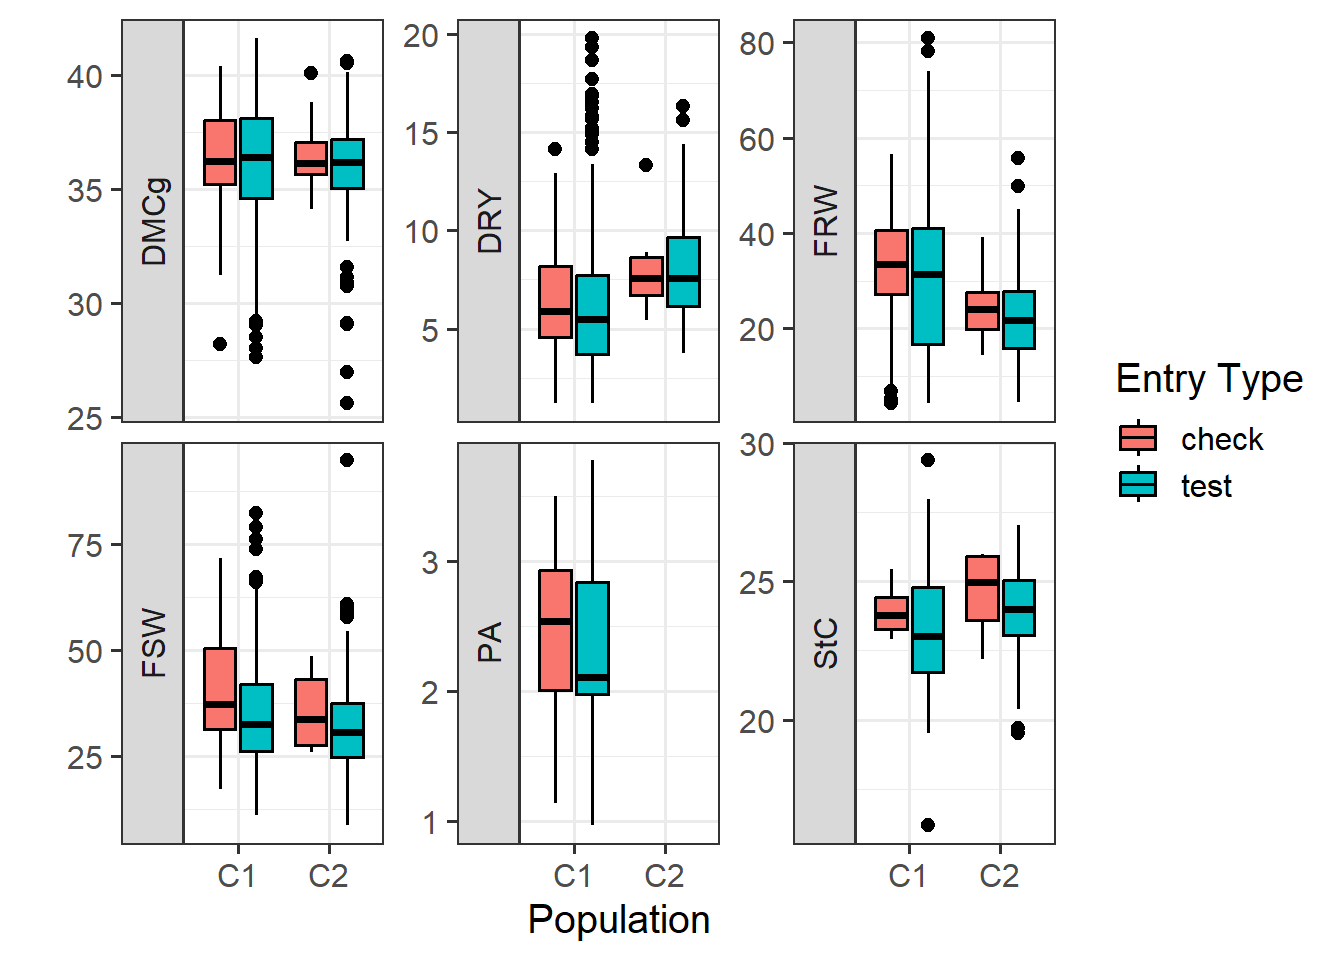
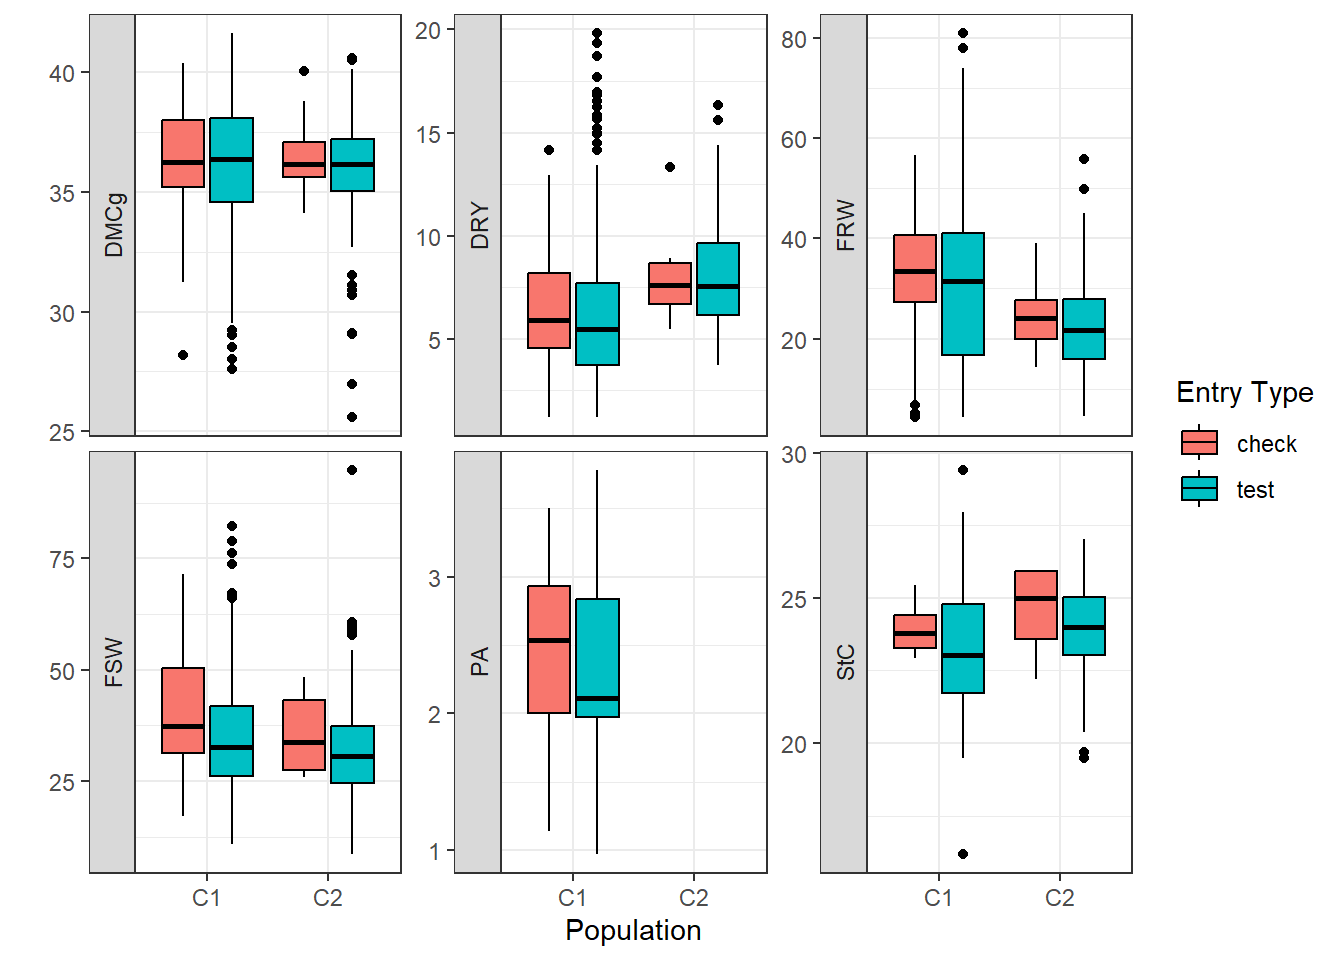
corrected size of the figures in blups_cycles

diff --git a/docs/3_Blups_cycles.html b/docs/3_Blups_cycles.html
@@ -540,15 +540,15 @@ project makes it easier to run your code on other machines.</p>
 <div class="panel panel-default">
 <div class="panel-heading">
 <p class="panel-title">
-<a data-toggle="collapse" data-parent="#workflowr-checks" href="#strongRepositoryversionstrongahrefhttpsgithubcomWevertonGomesCostaanalisysnextgen2022tree85ab19d965010c4c76e595405e2b5b4fa9d9b47ftargetblank85ab19da">
+<a data-toggle="collapse" data-parent="#workflowr-checks" href="#strongRepositoryversionstrongahrefhttpsgithubcomWevertonGomesCostaanalisysnextgen2022treee629936b03b2928fd5f9713a995f3157fe22eb98targetblanke629936a">
 <span class="glyphicon glyphicon-ok text-success"
 aria-hidden="true"></span> <strong>Repository version:</strong>
-<a href="https://github.com/WevertonGomesCosta/analisys-next-gen-2022/tree/85ab19d965010c4c76e595405e2b5b4fa9d9b47f" target="_blank">85ab19d</a>
+<a href="https://github.com/WevertonGomesCosta/analisys-next-gen-2022/tree/e629936b03b2928fd5f9713a995f3157fe22eb98" target="_blank">e629936</a>
 </a>
 </p>
 </div>
 <div
[2 lines of base64/hex data omitted]
 class="panel-collapse collapse">
 <div class="panel-body">
 <p>
@@ -558,7 +558,7 @@ reproducibility.
 </p>
 <p>
 The results in this page were generated with repository version
-<a href="https://github.com/WevertonGomesCosta/analisys-next-gen-2022/tree/85ab19d965010c4c76e595405e2b5b4fa9d9b47f" target="_blank">85ab19d</a>.
+<a href="https://github.com/WevertonGomesCosta/analisys-next-gen-2022/tree/e629936b03b2928fd5f9713a995f3157fe22eb98" target="_blank">e629936</a>.
 See the <em>Past versions</em> tab to see a history of the changes made
 to the R Markdown and HTML files.
 </p>
@@ -574,6 +574,7 @@ were generated:
 <pre><code>
 Ignored files:
     Ignored:    .Rproj.user/
+    Ignored:    analysis/figure/
     Ignored:    data/Arquivos Fieldbook 2022/BR.AYTInd.22.CMa_1.xls
     Ignored:    data/Arquivos Fieldbook 2022/BR.AYTInd.22.Candeal 8MP e 16cm_1.xls
     Ignored:    data/Arquivos Fieldbook 2022/BR.AYTInd.22.Estab_1.xls
@@ -616,12 +617,15 @@ Ignored files:
     Ignored:    data/Arquivos Fieldbook 2022/BR.UYTGS.22.SDAP_1.xls
     Ignored:    data/Arquivos Fieldbook 2022/BR.UYTGS.22.TRAC_1.xls
     Ignored:    data/Arquivos Fieldbook 2022/BR.UYTGS.22.VC_1.xls
+    Ignored:    data/Dados_podridao_2018_2021.xlsx
+    Ignored:    data/TP-BR-18-EMBRAPA-Nextgen.csv
+    Ignored:    data/exclud_c0.csv
+    Ignored:    data/metadata (1).csv
+    Ignored:    data/metadata1.csv
+    Ignored:    data/phenotype (1).csv
     Ignored:    data/phenotype.csv
     Ignored:    output/StudyTraits.tiff
     Ignored:    output/StudyYear.tiff
-
-Untracked files:
-    Untracked:  data/exclud_c0.csv
 
 Unstaged changes:
     Modified:   analysis/3_Blups_cycles.Rmd
@@ -669,6 +673,40 @@ Message
 </tr>
 </thead>
 <tbody>
+<tr>
+<td>
+Rmd
+</td>
+<td>
+<a href="https://github.com/WevertonGomesCosta/analisys-next-gen-2022/blob/0775fbab6b6adb538fed82a2127fc402b32dc214/analysis/3_Blups_cycles.Rmd" target="_blank">0775fba</a>
+</td>
+<td>
+WevertonGomesCosta
+</td>
+<td>
+2025-10-04
+</td>
+<td>
+add blupscycle .rmd and html
+</td>
+</tr>
+<tr>
+<td>
+html
+</td>
+<td>
+<a href="https://rawcdn.githack.com/WevertonGomesCosta/analisys-next-gen-2022/0775fbab6b6adb538fed82a2127fc402b32dc214/docs/3_Blups_cycles.html" target="_blank">0775fba</a>
+</td>
+<td>
+WevertonGomesCosta
+</td>
+<td>
+2025-10-04
+</td>
+<td>
+add blupscycle .rmd and html
+</td>
+</tr>
 <tr>
 <td>
 Rmd
@@ -895,10 +933,47 @@ names(resultado) &lt;- traits</code></pre>
   geom_point() +
   stat_poly_line() +
   facet_wrap(~ trait, ncol = 3, scales = &quot;free_y&quot;, labeller = as_labeller(resultado)) +
-  theme_bw(base_size = 15) +
+  theme_bw() +
   scale_x_continuous(breaks = 1:3, labels = c(&quot;C0&quot;,&quot;C1&quot;,&quot;C2&quot;)) +
   labs(x = &quot;Population&quot;, y = &quot;&quot;)</code></pre>
 <p><img src="figure/3_Blups_cycles.Rmd/unnamed-chunk-10-1.png" width="100%" style="display: block; margin: auto;" /></p>
+<p>
+<button type="button" class="btn btn-default btn-xs btn-workflowr btn-workflowr-fig" data-toggle="collapse" data-target="#fig-unnamed-chunk-10-1">
+Past versions of unnamed-chunk-10-1.png
+</button>
+</p>
+<div id="fig-unnamed-chunk-10-1" class="collapse">
+<div class="table-responsive">
+<table class="table table-condensed table-hover">
+<thead>
+<tr>
+<th>
+Version
+</th>
+<th>
+Author
+</th>
+<th>
+Date
+</th>
+</tr>
+</thead>
+<tbody>
+<tr>
+<td>
+<a href="https://github.com/WevertonGomesCosta/analisys-next-gen-2022/blob/8b7bfcd379f1c929c363c35e9bf706955e06c86c/docs/figure/3_Blups_cycles.Rmd/unnamed-chunk-10-1.png" target="_blank">8b7bfcd</a>
+</td>
+<td>
+WevertonGomesCosta
+</td>
+<td>
+2025-10-04
+</td>
+</tr>
+</tbody>
+</table>
+</div>
+</div>
 <p><em>Interpretation:</em><br />
 Regression slopes indicate <strong>genetic gain per cycle</strong>.
 Significant positive slopes confirm progress.</p>
@@ -912,9 +987,46 @@ Significant positive slopes confirm progress.</p>
   mutate(entryType = ifelse(germplasmName %in% checks, &quot;check&quot;, &quot;test&quot;)) %&gt;%
   ggboxplot(x = &quot;Population&quot;, y = &quot;Predicted&quot;, fill = &quot;entryType&quot;) +
   facet_wrap(trait ~ ., scales = &quot;free_y&quot;, strip.position = &quot;left&quot;) +
-  theme_bw(base_size = 15) +
+  theme_bw() +
   labs(x = &quot;Population&quot;, y = &quot;&quot;, fill = &quot;Entry Type&quot;)</code></pre>
 <p><img src="figure/3_Blups_cycles.Rmd/unnamed-chunk-11-1.png" width="100%" style="display: block; margin: auto;" /></p>
+<p>
+<button type="button" class="btn btn-default btn-xs btn-workflowr btn-workflowr-fig" data-toggle="collapse" data-target="#fig-unnamed-chunk-11-1">
+Past versions of unnamed-chunk-11-1.png
+</button>
+</p>
+<div id="fig-unnamed-chunk-11-1" class="collapse">
+<div class="table-responsive">
+<table class="table table-condensed table-hover">
+<thead>
+<tr>
+<th>
+Version
+</th>
+<th>
+Author
+</th>
+<th>
+Date
+</th>
+</tr>
+</thead>
+<tbody>
+<tr>
+<td>
+<a href="https://github.com/WevertonGomesCosta/analisys-next-gen-2022/blob/8b7bfcd379f1c929c363c35e9bf706955e06c86c/docs/figure/3_Blups_cycles.Rmd/unnamed-chunk-11-1.png" target="_blank">8b7bfcd</a>
+</td>
+<td>
+WevertonGomesCosta
+</td>
+<td>
+2025-10-04
+</td>
+</tr>
+</tbody>
+</table>
+</div>
+</div>
 <p><em>Interpretation:</em><br />
 Boxplots show the distribution of predicted values per cycle,
 contrasting <strong>checks vs tests</strong>. This highlights the
@@ -1107,20 +1219,56 @@ C1</strong> (mais checks), ranqueados pelo SI.</p>
   scale_fill_gdocs() +
   theme_minimal() +
   scale_x_reordered() +
-  theme(text = element_text(size = 15, face = &quot;bold&quot;),
-        axis.text.x = element_text(size = 18, angle = 45, hjust = 1, vjust = 1.1),
+  theme(
+        axis.text.x = element_text(angle = 90, hjust = 1, vjust = 1),
         legend.title = element_blank(),
         legend.position = &quot;bottom&quot;,
         panel.grid.major.x = element_blank(),
         panel.grid.minor.x = element_blank(),
         panel.spacing.x = unit(0.2, &quot;lines&quot;),
-        strip.background = element_blank(),
-        strip.text.x = element_text(size = 12, face = &quot;bold&quot;)) +
+        strip.background = element_blank()) +
   labs(x = &quot;Clone&quot;,
        y = &quot;Selection Index&quot;,
        fill = &quot;Entry Type&quot;,
        title = &quot;GS-C1&quot;)</code></pre>
 <p><img src="figure/3_Blups_cycles.Rmd/unnamed-chunk-16-1.png" width="100%" style="display: block; margin: auto;" /></p>
+<p>
+<button type="button" class="btn btn-default btn-xs btn-workflowr btn-workflowr-fig" data-toggle="collapse" data-target="#fig-unnamed-chunk-16-1">
+Past versions of unnamed-chunk-16-1.png
+</button>
+</p>
+<div id="fig-unnamed-chunk-16-1" class="collapse">
+<div class="table-responsive">
+<table class="table table-condensed table-hover">
+<thead>
+<tr>
+<th>
+Version
+</th>
+<th>
+Author
+</th>
+<th>
+Date
+</th>
+</tr>
+</thead>
+<tbody>
+<tr>
+<td>
+<a href="https://github.com/WevertonGomesCosta/analisys-next-gen-2022/blob/8b7bfcd379f1c929c363c35e9bf706955e06c86c/docs/figure/3_Blups_cycles.Rmd/unnamed-chunk-16-1.png" target="_blank">8b7bfcd</a>
+</td>
+<td>
+WevertonGomesCosta
+</td>
+<td>
+2025-10-04
+</td>
+</tr>
+</tbody>
+</table>
+</div>
+</div>
 <p><strong>Interpretação:</strong><br />
 - O gráfico mostra os <strong>30 clones mais promissores da
 C1</strong>.<br />
@@ -1147,20 +1295,56 @@ C2</strong>.</p>
   scale_fill_gdocs() +
   theme_minimal() +
   scale_x_reordered() +
-  theme(text = element_text(size = 15, face = &quot;bold&quot;),
-        axis.text.x = element_text(size = 18, angle = 45, hjust = 1, vjust = 1.1),
+  theme(
+        axis.text.x = element_text(angle = 90, hjust = 1, vjust = 1),
         legend.title = element_blank(),
         legend.position = &quot;bottom&quot;,
         panel.grid.major.x = element_blank(),
         panel.grid.minor.x = element_blank(),
         panel.spacing.x = unit(0.2, &quot;lines&quot;),
-        strip.background = element_blank(),
-        strip.text.x = element_text(size = 12, face = &quot;bold&quot;)) +
+        strip.background = element_blank()) +
   labs(x = &quot;Clone&quot;,
        y = &quot;Selection Index&quot;,
        fill = &quot;Entry Type&quot;,
        title = &quot;GS-C2&quot;)</code></pre>
 <p><img src="figure/3_Blups_cycles.Rmd/unnamed-chunk-17-1.png" width="100%" style="display: block; margin: auto;" /></p>
+<p>
+<button type="button" class="btn btn-default btn-xs btn-workflowr btn-workflowr-fig" data-toggle="collapse" data-target="#fig-unnamed-chunk-17-1">
+Past versions of unnamed-chunk-17-1.png
+</button>
+</p>
+<div id="fig-unnamed-chunk-17-1" class="collapse">
+<div class="table-responsive">
+<table class="table table-condensed table-hover">
+<thead>
+<tr>
+<th>
+Version
+</th>
+<th>
+Author
+</th>
+<th>
+Date
+</th>
+</tr>
+</thead>
+<tbody>
+<tr>
+<td>
+<a href="https://github.com/WevertonGomesCosta/analisys-next-gen-2022/blob/8b7bfcd379f1c929c363c35e9bf706955e06c86c/docs/figure/3_Blups_cycles.Rmd/unnamed-chunk-17-1.png" target="_blank">8b7bfcd</a>
+</td>
+<td>
+WevertonGomesCosta
+</td>
+<td>
+2025-10-04
+</td>
+</tr>
+</tbody>
+</table>
+</div>
+</div>
 <p><strong>Interpretação:</strong><br />
 - Os <strong>30 melhores clones da C2</strong> apresentam, em geral, SI
 mais alto que os da C1.<br />
